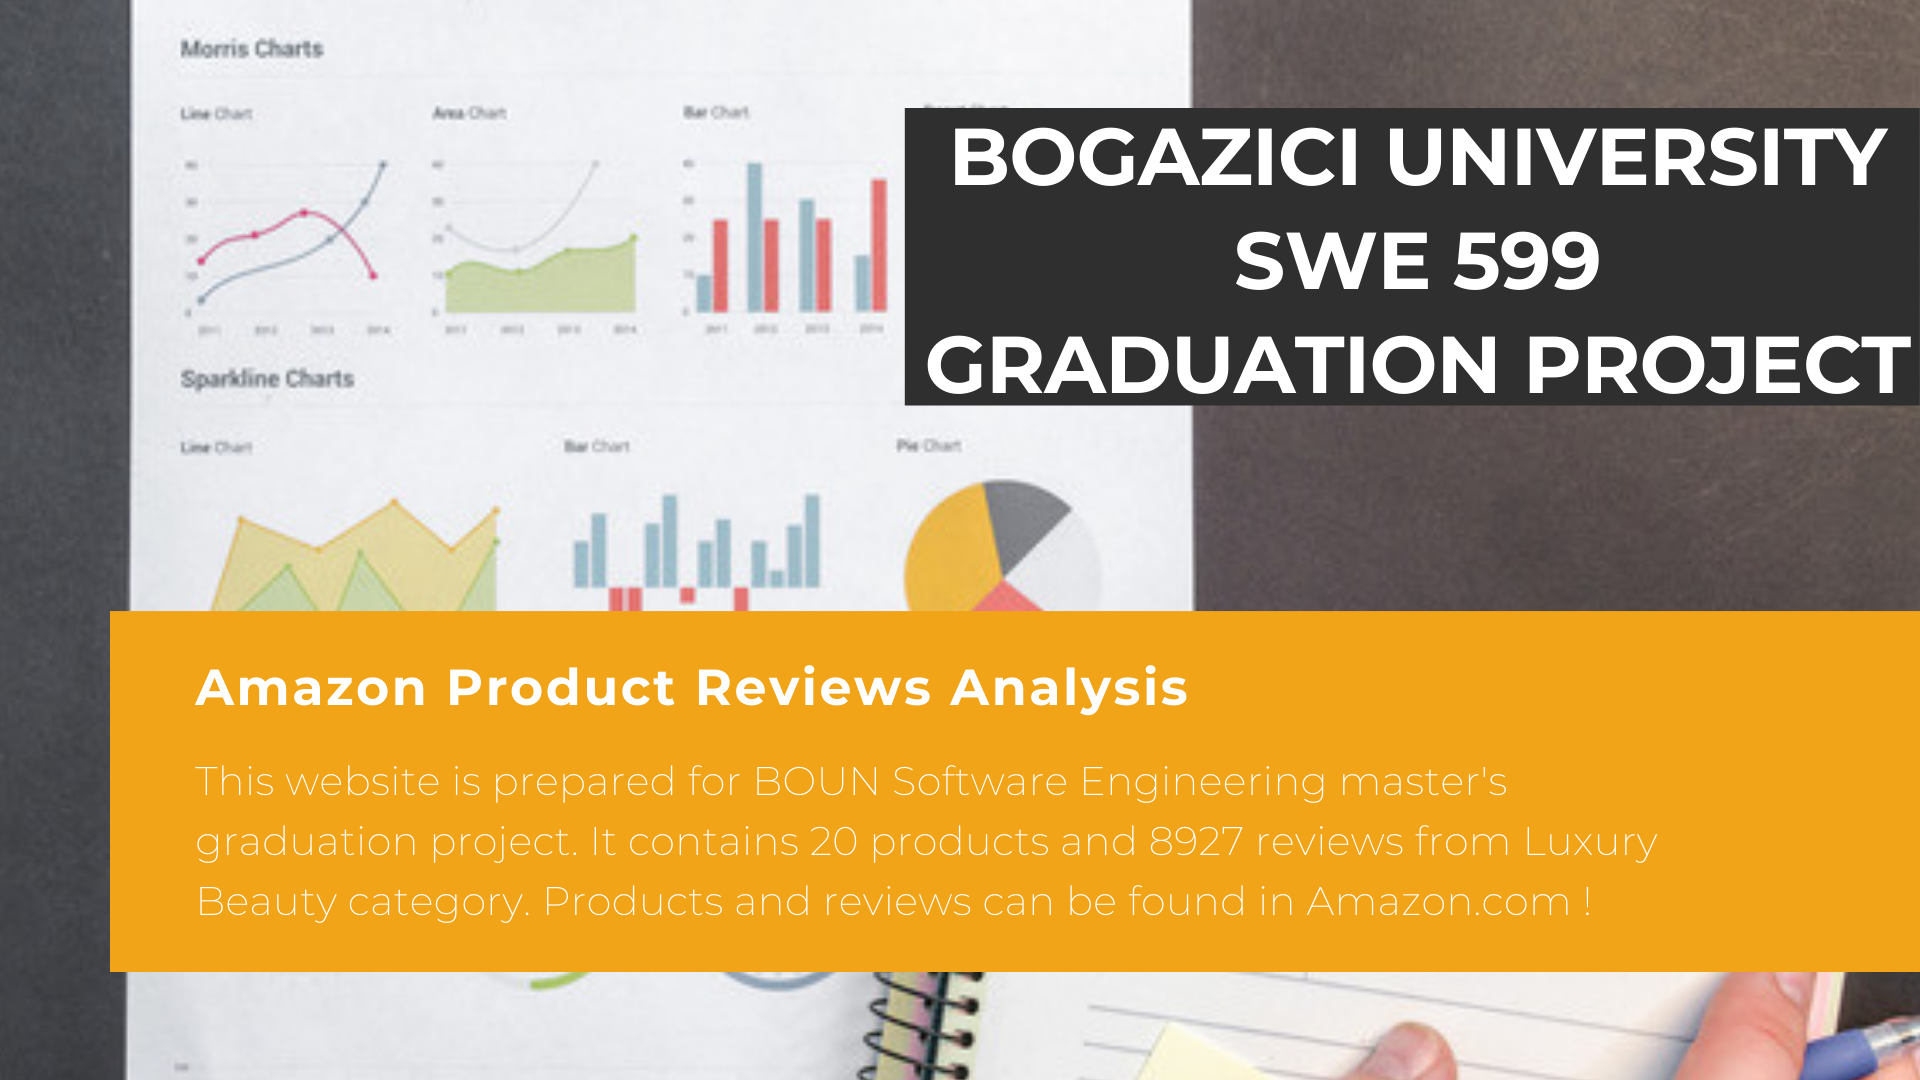
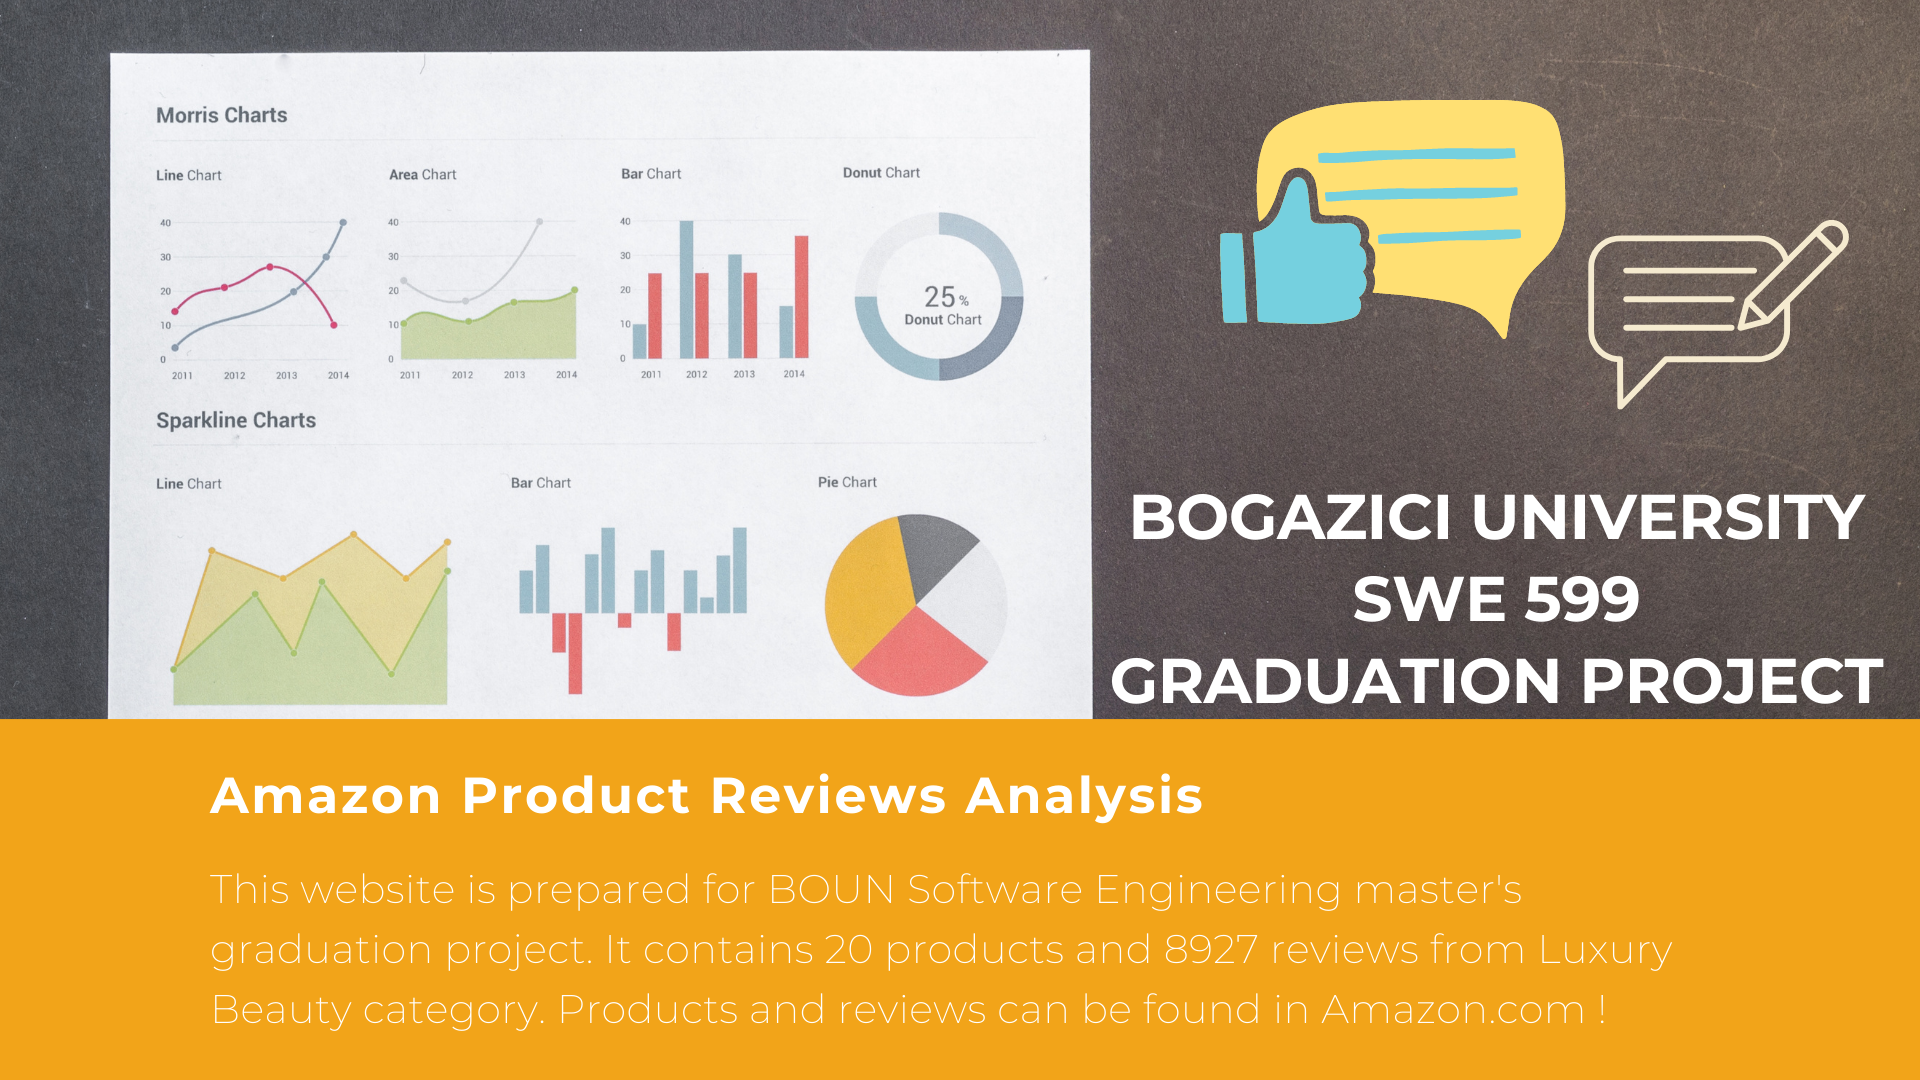
changed welcome page images and fixed grammar mistakes

diff --git a/analysis/templates/welcome.html b/analysis/templates/welcome.html
@@ -15,13 +15,13 @@
     <!-- The slideshow -->
     <div class="carousel-inner">
       <div class="carousel-item active">
-        <img class="d-block w-100" width="100" height="650" src="../static/welcome.png" alt="Los Angeles">
+        <img class="d-block w-100" width="100" height="600" src="../static/welcome.png" alt="Los Angeles">
       </div>
       <div class="carousel-item">
-        <img class="d-block w-100" width="100" height="650" src="../static/welcome_2.png" alt="Chicago">
+        <img class="d-block w-100" width="100" height="600" src="../static/welcome_2.png" alt="Chicago">
       </div>
       <div class="carousel-item">
-        <img class="d-block w-100" width="100" height="650" src="../static/welcome_3.png" alt="New York">
+        <img class="d-block w-100" width="100" height="600" src="../static/welcome_3.png" alt="New York">
       </div>
     </div>
   
@@ -39,20 +39,20 @@
 <div class="container p-4 mb-4 my-3">
   <div class="row">
     <div class="col-sm-6">
-      <div class="card text-center bg-light">
+      <div class="card text-white bg-dark text-center">
         <div class="card-body">
           <h5 class="card-title">FILTERING FUNCTIONALITY</h5>
           <p class="card-text">You can filter 20 different product and see the reviews! You can also search for special words in reviews and get the customer's reaction!</p>
-          <a class="btn btn-outline-dark" href="/analysis/filter" role="button">Filter Now</a>
+          <a class="btn btn-light" href="/analysis/filter" role="button">Filter Now</a>
         </div>
       </div>
     </div>
     <div class="col-sm-6">
-      <div class="card text-center bg-light">
+      <div class="card text-white bg-dark text-center">
         <div class="card-body">
           <h5 class="card-title">ANALYZING FUNCTIONALITY</h5>
           <p class="card-text">You can select a product out of 20 different ones and see most common words, sentiment and most common 2-words pairs!</p>
-          <a class="btn btn-outline-dark" href="/analysis/search" role="button">Analyze Now</a>
+          <a class="btn btn-light" href="/analysis/search" role="button">Analyze Now</a>
         </div>
       </div>
     </div>
